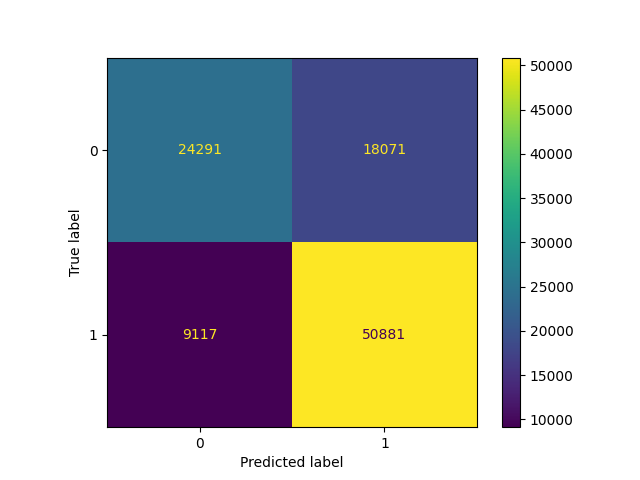
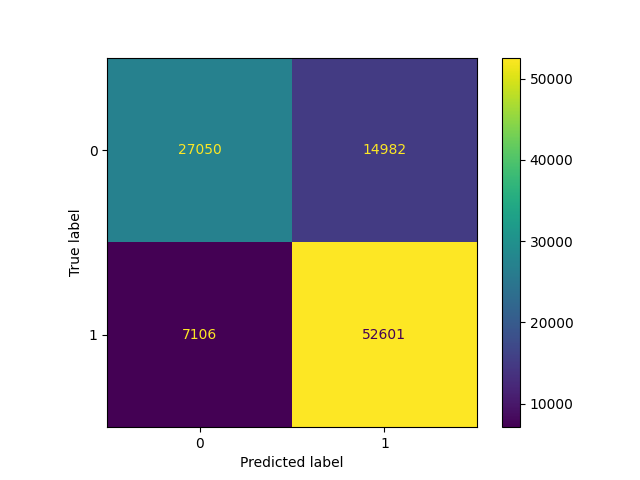
Addded W Pred

diff --git a/src/train.py b/src/train.py
@@ -35,19 +35,19 @@ def evaluate_model(model, x_train, y_train, x_test, y_test):
     cm_train = confusion_matrix(y_true=y_train, y_pred=y_train_pred)
 
     cm_test = confusion_matrix(y_true=y_test, y_pred=y_pred)
-    
+
     # Compute Train Metrics
-    accuracy_train = accuracy_score(y_pred=y_pred, y_true=y_test)
+    accuracy_train = accuracy_score(y_pred=y_train_pred, y_true=y_train)
     # Recall
-    recall_train = recall_score(y_test, y_pred)
+    recall_train = recall_score(y_train, y_train_pred)
     # Puntuación F1
-    f1_train = f1_score(y_test, y_pred)
+    f1_train = f1_score(y_train, y_train_pred)
     # Curva ROC (AUC)
-    fpr_train, tpr_train, thresholds_train = roc_curve(y_test, y_pred)
-    auc_train = roc_auc_score(y_test, y_pred)
+    fpr_train, tpr_train, thresholds_train = roc_curve(y_train, y_train_pred)
+    auc_train = roc_auc_score(y_train, y_train_pred)
     # Pérdida logarítmica
-    loss_train = log_loss(y_test, y_pred)
-    
+    loss_train = log_loss(y_train, y_train_pred)
+
     # Compute Test Metrics
     accuracy_test = accuracy_score(y_pred=y_pred, y_true=y_test)
     # Recall
@@ -61,7 +61,7 @@ def evaluate_model(model, x_train, y_train, x_test, y_test):
     loss_test = log_loss(y_test, y_pred)
 
     return ([accuracy_train, recall_train, f1_train, [fpr_train, tpr_train, thresholds_train], auc_train, loss_train, cm_train],
-        [accuracy_test, recall_test, f1_test, [fpr_test, tpr_test, thresholds_test], auc_test, loss_test, cm_test])
+            [accuracy_test, recall_test, f1_test, [fpr_test, tpr_test, thresholds_test], auc_test, loss_test, cm_test])
 
 
 def custom_train(train_df: pd.DataFrame, test_df: pd.DataFrame, model_instance, params):
@@ -84,7 +84,8 @@ def custom_train(train_df: pd.DataFrame, test_df: pd.DataFrame, model_instance, 
 
     return best_acc, best_params, best_all_results
 
-def create_comparision_graphic(results):
+
+def create_comparision_graphic(results, type):
     categorias = ['Accuracy Train', 'Recall Train', 'F1 Score Train', 'Accuracy Test', 'Recall Test', 'F1 Score Test']
     colors = ['#1f77b4', '#ff7f0e', '#2ca02c', '#d62728', '#9467bd']
 
@@ -92,7 +93,7 @@ def create_comparision_graphic(results):
     fig, ax = plt.subplots(figsize=(8, 8), subplot_kw=dict(polar=True))
     for i, (model, values) in enumerate(results.items()):
         angulos = np.linspace(0, 2 * np.pi, N, endpoint=False).tolist()
-        grpah_metrics = [values[2][0][0], values[2][0][1], values[2][0][2],values[2][1][0], values[2][1][1], values[2][1][2]]
+        grpah_metrics = [values[2][0][0], values[2][0][1], values[2][0][2], values[2][1][0], values[2][1][1], values[2][1][2]]
         grpah_metrics += grpah_metrics[:1]
         angulos += angulos[:1]
         ax.fill(angulos, grpah_metrics, color=colors[i], alpha=0.25)
@@ -102,20 +103,19 @@ def create_comparision_graphic(results):
         ax.set_rscale('linear')
         ax.legend(loc='upper right', bbox_to_anchor=(0.1, 0.1))
     plt.plot()
-    plt.savefig(f"plots/spider_graph.png")
+    plt.savefig(f"plots/{type}/_spider_graph.png")
     for i, (model, values) in enumerate(results.items()):
         ConfusionMatrixDisplay(confusion_matrix=values[2][0][-1]).plot()
         plt.plot()
-        plt.savefig(f"plots/cm_{model}_train.png")
+        plt.savefig(f"plots/{type}/cm_{model}_train.png")
         ConfusionMatrixDisplay(confusion_matrix=values[2][1][-1]).plot()
         plt.plot()
-        plt.savefig(f"plots/cm_{model}_test.png")
+        plt.savefig(f"plots/{type}/cm_{model}_test.png")
     plt.close('all')
     return
 
 
-
-def train(train_df: pd.DataFrame, test_df: pd.DataFrame):
+def train(train_df: pd.DataFrame, test_df: pd.DataFrame, type:str, best_model=None):
     modelos = [
         # ('SVC', SVC()),
         ('XGBoost', XGBClassifier),
@@ -127,7 +127,7 @@ def train(train_df: pd.DataFrame, test_df: pd.DataFrame):
         # {'C': [0.1, 1, 10, 100], 'kernel': ['linear', 'rbf']},
         {'n_estimators': [50, 100, 200], 'learning_rate': [0.01, 0.1, 0.2, 0.3]},
         {'n_estimators': [10, 50, 100, 200], 'max_features': ['sqrt', 'log2']},
-        {'C': [0.1, 1, 10, 100, 1_000, 10_000, 100_000], 'penalty': ['l1', 'l2'], "max_iter": [100, 1_000, 10_000]},
+        {'C': [0.1, 1, 10, 100, 1_000, 10_000, 100_000], 'penalty': ['l1', 'l2'], "max_iter": [100, 1_000, 10_000], "n_jobs": [-1]},
         {'n_estimators': [50, 100, 200], 'learning_rate': [0.01, 0.1, 0.2, 0.3]}
     ]
 
@@ -136,11 +136,25 @@ def train(train_df: pd.DataFrame, test_df: pd.DataFrame):
     for m, h in zip(modelos, hiperparametros):
         acc, params, all_results = custom_train(train_df=train_df, test_df=test_df, model_instance=m[1], params=h)
         result[m[0]] = (acc, params, all_results)
-    
-    create_comparision_graphic(results=result)    
 
     print(result)
-    return result
+    create_comparision_graphic(results=result, type=type)
+    model_instance = None
+    for name, instance in modelos:
+        if name == best_model:
+            model_instance = instance
+    params = result.get(best_model)[1]
+
+    model = train_with_params(model=model_instance, params=params, train_df=train_df, test_df=test_df)
+    return model
+
+
+def train_with_params(model, params, train_df, test_df):
+    x_train, y_train, x_test, y_test = split_data(train_df=train_df, test_df=test_df)
+    model = model(**params)
+    model.fit(x_train, y_train)
+    pickle.dump(model, open("model/model.sav", "wb"))
+    return model
 
 
 def get_grid(params):
@@ -157,13 +171,11 @@ def get_grid(params):
     return result
 
 
-
-
 def train_test(train_df: pd.DataFrame, test_df: pd.DataFrame):
     x_train, y_train, x_test, y_test = split_data(train_df=train_df, test_df=test_df)
     # Train Model
     model = find_best_model(x_train=x_train, x_test=x_test, y_train=y_train, y_test=y_test)
-    
+
     model.fit(x_train, y_train)
     y_train_pred = model.predict(x_train)
     y_pred = model.predict(x_test)

diff --git a/src/pipeline.py b/src/pipeline.py
@@ -7,15 +7,28 @@ from train import train_test, train
 
 
 def pipeline(config):
-    if config.get("ingestion").get("active"):
-        df = prepare_regular_season_csv(config.get("regularSeason"))
-        df.to_csv("../data/MMedianSeasonAggStreak_2.csv", index=False)
-    else:
-        df = pd.read_csv(config.get("ingestion").get("existingFile"))
+    if config.get("male").get("active"):
+        if config.get("male", None).get("ingestion").get("active"):
+            df = prepare_regular_season_csv(config.get("male", None).get("regularSeason"))
+            df.to_csv(config.get("male").get("ingestion").get("outputCSV"), index=False)
+        else:
+            df = pd.read_csv(config.get("male").get("ingestion").get("existingFile"))
 
-    test_df = prepare_test_data(config.get("testData"), train_df=df)
-    # train_test(train_df=df, test_df=test_df)
-    result = train(train_df=df, test_df=test_df)
+        test_df = prepare_test_data(config.get("male").get("testData"), train_df=df)
+        # train_test(train_df=df, test_df=test_df)
+        model = train(train_df=df, test_df=test_df, best_model=config.get("male").get("model"), type="male")
+
+    if config.get("female").get("active"):
+        if config.get("female", None).get("ingestion").get("active"):
+            df = prepare_regular_season_csv(config.get("female", None).get("regularSeason"))
+            df.to_csv(config.get("female").get("ingestion").get("outputCSV"), index=False)
+        else:
+            df = pd.read_csv(config.get("female").get("ingestion").get("existingFile"))
+
+        test_df = prepare_test_data(config.get("female").get("testData"), train_df=df)
+        # train_test(train_df=df, test_df=test_df)
+        model = train(train_df=df, test_df=test_df, best_model=config.get("female").get("model"), type="female")
+
 
 
 if __name__ == "__main__":

diff --git a/src/predict.py b/src/predict.py
@@ -149,7 +149,7 @@ def predict_final_four(final_four_data, season_data, model):
     final_four_data.drop(columns=['index'], inplace=True)
     final_four_bracket = pd.DataFrame(columns=list(final_four_data.columns))
     new_conf = []
-    for k,v in REGION_MATCH_UP.items():
+    for k, v in REGION_MATCH_UP.items():
         new_conf.append(f"{k}_{v}")
         winner_k, game_id_k = final_four_data[final_four_data['Conference'] == k][["Winner", "Game"]].values[0]
         winner_v, game_id_v = final_four_data[final_four_data['Conference'] == v][["Winner", "Game"]].values[0]
@@ -171,15 +171,13 @@ def predict_final_four(final_four_data, season_data, model):
 
         final_four_bracket.loc[final_four_bracket["Conference"] == conference, "Winner"] = winner
 
-    game = final_four_bracket.loc[len(final_four_bracket)-1, :]
+    game = final_four_bracket.loc[len(final_four_bracket) - 1, :]
     teamA, teamB, game_name, conference = game['TeamA'], game['TeamB'], game['Game'], game['Conference']
     print(f"Game: - {game_name}     Teams: {teamA} vs {teamB}")
     game_data = pregame_data(teamA=teamA, teamB=teamB, data=season_data, columns=season_data.columns)
     winner = generate_prediction(game_data=game_data, model=model)
     final_four_bracket.loc[final_four_bracket["Conference"] == "_".join(new_conf), "Winner"] = winner
-    
-    
-    
+
     return final_four_bracket
 
 

diff --git a/src/data_preparation.py b/src/data_preparation.py
@@ -228,7 +228,7 @@ def prepare_test_data(file_name, train_df):
     df = pd.read_csv(file_name)
     final_df = pd.DataFrame(columns=train_df.columns)
     for idx, row in df.iterrows():
-        if idx%2 == 0:
+        if idx % 2 == 0:
             teamA = row['WTeamID']
             teamB = row['LTeamID']
             balance = 1
@@ -240,6 +240,5 @@ def prepare_test_data(file_name, train_df):
         if game.isna().sum().sum() != 0:
             print("Stop")
         final_df.loc[len(final_df)] = game.iloc[0]
-    
-    return final_df
 
+    return final_df
